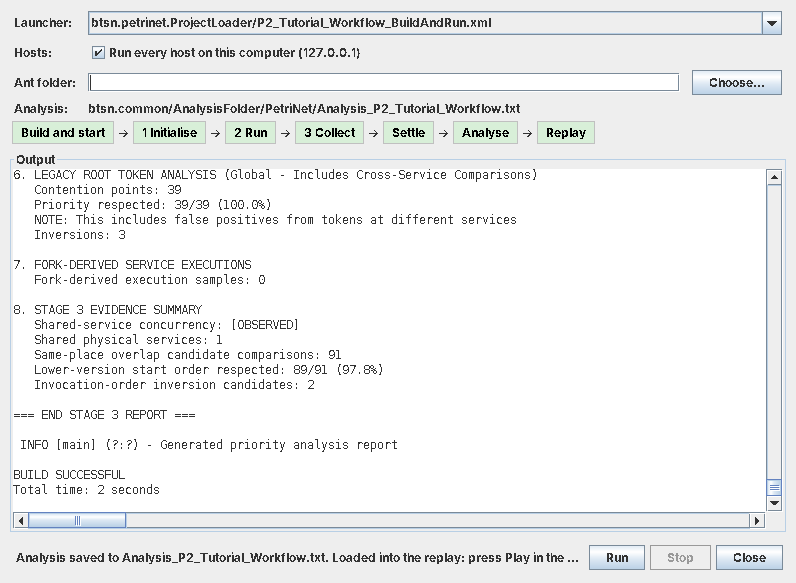
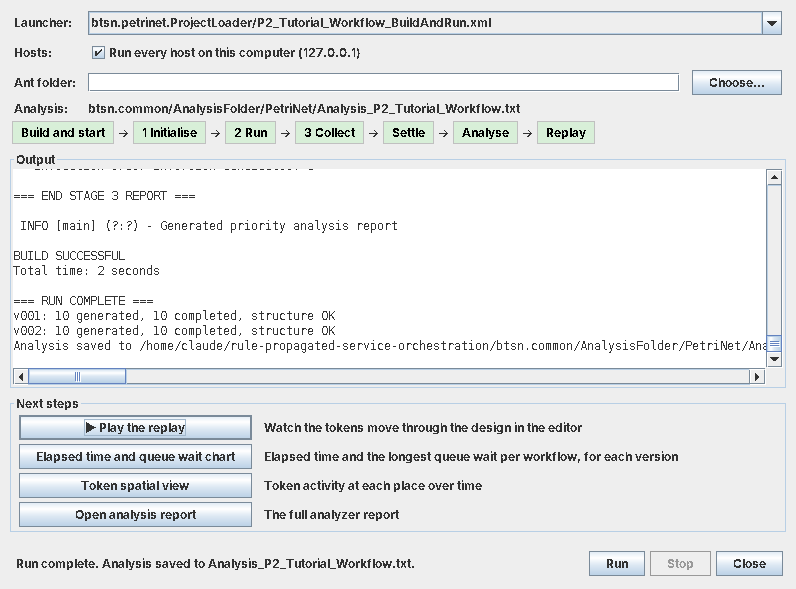
Run: a clear ending and next steps (replay, charts, report)
- The run's output ends with a summary per version ("v001: 10 generated, 10
  completed, structure OK"), flagging versions with unfinished workflows,
  instead of the analyse step's "BUILD SUCCESSFUL".
- Next steps panel in the Run window when a run completes: Play the replay
  (brings the editor forward and plays), the elapsed time and queue wait chart,
  the token spatial view, and the analysis report.
- The editor highlights Play and its status bar says the run is ready to replay.
- chart-timing and chart-spatial targets beside analyse in launcher-runtime.xml,
  so every launcher can open Monitor's charts (the Next steps buttons use them).
- The replay uses Monitor's version colours (v001 red, v002 blue, ...), so a
  version looks the same in the replay and the charts.
- SwingGanttChart_WithLatency_v1d was renamed on 9 Oct; the P1 export helper
  (which no longer compiled), README, tutorial and Monitor notes now use the
  current name.
- Verified with the real P2 launcher from the editor: summary shown, Play
  replayed, both charts opened.

Claude-Session: https://claude.ai/code/session_0151nDw2DdARiuD7yvK629N9

diff --git a/btsn.workflowEditor/src/com/editor/RunWindow.java b/btsn.workflowEditor/src/com/editor/RunWindow.java
@@ -18,6 +18,12 @@ public final class RunWindow extends JFrame {
     private final File root;
     private final String processName;
     private final Consumer<File> onAnalysis;
+    private final Runnable onPlay;
+    /** What to do once a run has been analysed; shown when the run completes. */
+    final JPanel nextSteps = new JPanel(new GridBagLayout());
+    final JButton play = new JButton("\u25B6 Play the replay"), timing = new JButton("Elapsed time and queue wait chart"),
+        spatial = new JButton("Token spatial view"), report = new JButton("Open analysis report");
+    private File lastAnalysis;
     final JComboBox<File> launcher;
     final JCheckBox allHostsHere = new JCheckBox("Run every host on this computer (127.0.0.1)", true);
     final JTextField ant = new JTextField(28);
@@ -29,9 +35,9 @@ public final class RunWindow extends JFrame {
 
     private static final String[] STEP_NAMES = {"Build and start", "1 Initialise", "2 Run", "3 Collect", "Settle", "Analyse", "Replay"};
 
-    public RunWindow(Window owner, File root, String processName, List<File> launchers, Consumer<File> onAnalysis) {
+    public RunWindow(Window owner, File root, String processName, List<File> launchers, Consumer<File> onAnalysis, Runnable onPlay) {
         super("Run " + processName);
-        this.root = root; this.processName = processName; this.onAnalysis = onAnalysis;
+        this.root = root; this.processName = processName; this.onAnalysis = onAnalysis; this.onPlay = onPlay;
         setDefaultCloseOperation(DO_NOTHING_ON_CLOSE);
         addWindowListener(new java.awt.event.WindowAdapter() { @Override public void windowClosing(java.awt.event.WindowEvent e) { closeWindow(); } });
 
@@ -84,11 +90,25 @@ public final class RunWindow extends JFrame {
         bottom.add(status, BorderLayout.CENTER); bottom.add(buttons, BorderLayout.EAST);
         status.setBorder(BorderFactory.createEmptyBorder(0, 8, 0, 0));
 
+        nextSteps.setBorder(BorderFactory.createTitledBorder("Next steps"));
+        addStep(0, play, "Watch the tokens move through the design in the editor");
+        addStep(1, timing, "Elapsed time and the longest queue wait per workflow, for each version");
+        addStep(2, spatial, "Token activity at each place over time");
+        addStep(3, report, "The full analyzer report");
+        play.setFont(play.getFont().deriveFont(Font.BOLD));
+        play.addActionListener(e -> { onPlay.run(); status.setText("Replaying in the editor."); });
+        timing.addActionListener(e -> openViewer("chart-timing", "elapsed time chart"));
+        spatial.addActionListener(e -> openViewer("chart-spatial", "spatial view"));
+        report.addActionListener(e -> showReport());
+        nextSteps.setVisible(false);
+        JPanel south = new JPanel(new BorderLayout(6, 6));
+        south.add(nextSteps, BorderLayout.NORTH); south.add(bottom, BorderLayout.SOUTH);
+
         JPanel north = new JPanel(new BorderLayout());
         north.add(form, BorderLayout.NORTH); north.add(progress, BorderLayout.SOUTH);
         JPanel content = new JPanel(new BorderLayout(6, 6));
         content.setBorder(BorderFactory.createEmptyBorder(8, 8, 8, 8));
-        content.add(north, BorderLayout.NORTH); content.add(consolePane, BorderLayout.CENTER); content.add(bottom, BorderLayout.SOUTH);
+        content.add(north, BorderLayout.NORTH); content.add(consolePane, BorderLayout.CENTER); content.add(south, BorderLayout.SOUTH);
         setContentPane(content);
         pack();
         setLocationRelativeTo(owner);
@@ -105,6 +125,7 @@ public final class RunWindow extends JFrame {
         prefs.put(ANT_PREF, ant.getText().trim());
         console.setText("");
         resetSteps();
+        nextSteps.setVisible(false);
         start.setEnabled(false); stop.setEnabled(true); launcher.setEnabled(false); allHostsHere.setEnabled(false);
         status.setText("Running " + selected.getName() + "...");
         run = new LauncherRun(selected, root, LauncherRun.analysisFileFor(root, processName), allHostsHere.isSelected(), ant.getText(), new LauncherRun.Listener() {
@@ -142,10 +163,43 @@ public final class RunWindow extends JFrame {
         start.setEnabled(true); stop.setEnabled(false); launcher.setEnabled(true); allHostsHere.setEnabled(true);
         if (outcome == LauncherRun.Phase.DONE && analysis != null) {
             onAnalysis.accept(analysis);
-            status.setText(message + " Loaded into the replay: press Play in the editor.");
+            lastAnalysis = analysis;
+            nextSteps.setVisible(true);
+            getContentPane().revalidate();
+            play.requestFocusInWindow();
+            getRootPane().setDefaultButton(play);
+            status.setText("Run complete. " + message);
         } else {
             for (JLabel step : steps) if (step.getBackground().equals(new Color(0xFFF1C2))) step.setBackground(new Color(0xF6D0D0));
             status.setText(message);
+        }
+    }
+
+    private void addStep(int row, JButton button, String what) {
+        GridBagConstraints c = new GridBagConstraints();
+        c.gridy = row; c.insets = new Insets(2, 6, 2, 6); c.anchor = GridBagConstraints.WEST;
+        c.gridx = 0; c.fill = GridBagConstraints.HORIZONTAL; nextSteps.add(button, c);
+        c.gridx = 1; c.weightx = 1; c.fill = GridBagConstraints.NONE; nextSteps.add(new JLabel(what), c);
+    }
+
+    /** The Monitor viewers run through the launcher's chart targets, like analyse. */
+    private void openViewer(String target, String name) {
+        if (run == null) return;
+        append("[editor] Opening the " + name + " (ant " + target + ")...");
+        status.setText("Opening the " + name + "; it appears in its own window.");
+        run.openTarget(target);
+    }
+
+    private void showReport() {
+        if (lastAnalysis == null) return;
+        try {
+            JTextArea text = new JTextArea(new String(java.nio.file.Files.readAllBytes(lastAnalysis.toPath()), java.nio.charset.StandardCharsets.UTF_8));
+            text.setEditable(false); text.setFont(new Font(Font.MONOSPACED, Font.PLAIN, 12)); text.setCaretPosition(0);
+            JFrame frame = new JFrame(lastAnalysis.getName());
+            frame.setContentPane(new JScrollPane(text));
+            frame.setSize(900, 700); frame.setLocationRelativeTo(this); frame.setVisible(true);
+        } catch (java.io.IOException ex) {
+            JOptionPane.showMessageDialog(this, ex.getMessage(), "Analysis report", JOptionPane.ERROR_MESSAGE);
         }
     }
 

diff --git a/btsn.workflowEditor/src/com/editor/LauncherRun.java b/btsn.workflowEditor/src/com/editor/LauncherRun.java
@@ -125,7 +125,57 @@ public final class LauncherRun {
         process = null;
         if (exit != 0 || stopRequested) return false;
         Files.write(analysisFile.toPath(), report.toString().getBytes(StandardCharsets.UTF_8));
+        // Ant's own last line is the analyse step's "BUILD SUCCESSFUL"; end with what the run did instead.
+        listener.line("");
+        for (String line : summarise(report.toString())) listener.line(line);
+        listener.line("Analysis saved to " + analysisFile.getPath());
         return true;
+    }
+
+    /**
+     * The run in a few lines, per version, from the analyzer report:
+     * "v001: 10 generated, 10 completed, structure OK".
+     */
+    static List<String> summarise(String report) {
+        List<String> lines = new ArrayList<>();
+        lines.add("=== RUN COMPLETE ===");
+        java.util.regex.Matcher base = java.util.regex.Pattern.compile("(?m)^WORKFLOW BASE: \\d+ \\((v\\d+)\\)").matcher(report);
+        List<int[]> spans = new ArrayList<>(); List<String> versions = new ArrayList<>();
+        while (base.find()) { versions.add(base.group(1)); spans.add(new int[] {base.start(), report.length()}); }
+        for (int i = 0; i + 1 < spans.size(); i++) spans.get(i)[1] = spans.get(i + 1)[0];
+        for (int i = 0; i < versions.size(); i++) {
+            String part = report.substring(spans.get(i)[0], spans.get(i)[1]);
+            String generated = first(part, "Generated workflows:\\s+(\\d+)"), completed = first(part, "Completed workflows:\\s+(\\d+)");
+            String structure = first(part, "Structural result:\\s+\\[(\\w+)\\]");
+            if (generated == null && completed == null) continue;
+            String line = versions.get(i) + ": " + generated + " generated, " + completed + " completed";
+            if (structure != null) line += ", structure " + structure;
+            if (generated != null && completed != null && !generated.equals(completed)) line += "  <-- " + (Integer.parseInt(generated) - Integer.parseInt(completed)) + " did not complete";
+            lines.add(line);
+        }
+        if (lines.size() == 1) lines.add("No workflows found in the analysis; see the report above.");
+        return lines;
+    }
+    private static String first(String text, String regex) {
+        java.util.regex.Matcher m = java.util.regex.Pattern.compile(regex).matcher(text);
+        return m.find() ? m.group(1) : null;
+    }
+
+    /**
+     * Opens one of the launcher's viewer targets (chart-timing, chart-spatial) in the background.
+     * It runs on its own, so closing the chart or the Run window does not affect the other.
+     */
+    public void openTarget(String target) {
+        Thread viewer = new Thread(() -> {
+            try {
+                Process p = start(Arrays.asList("-emacs", "-f", launcher.getName(), target), null);
+                try (BufferedReader out = new BufferedReader(new InputStreamReader(p.getInputStream(), StandardCharsets.UTF_8))) {
+                    for (String line; (line = out.readLine()) != null; ) listener.line("[" + target + "] " + line);
+                }
+            } catch (IOException ex) { listener.line("[" + target + "] " + ex.getMessage()); }
+        }, "viewer-" + target);
+        viewer.setDaemon(true);
+        viewer.start();
     }
 
     /** Monitor writes collected records after the last collector returns; wait until its database is quiet. */

diff --git a/btsn.workflowEditor/tests/com/editor/RunFromEditorCheck.java b/btsn.workflowEditor/tests/com/editor/RunFromEditorCheck.java
@@ -22,6 +22,14 @@ public final class RunFromEditorCheck {
         check(LauncherRun.phaseOf("=== PHASE 2: WORKFLOW EXECUTION ===") == LauncherRun.Phase.RUN && LauncherRun.phaseOf("Deploying") == null, "Phase lines");
         List<File> launchers = LauncherRun.launchersFor(repository, "petrinet/Workflow/P2_Tutorial_Workflow");
         check(!launchers.isEmpty() && launchers.get(0).getName().equals("P2_Tutorial_Workflow_BuildAndRun.xml"), "P2 launcher not found first: " + launchers);
+        // The closing summary: per version, generated and completed, flagged when some did not complete.
+        String single = new String(Files.readAllBytes(repository.toPath().resolve("btsn.workflowEditor/tests/fixtures/Analysis_P2_single_generator.txt")), StandardCharsets.UTF_8);
+        List<String> summary = LauncherRun.summarise(single);
+        check(summary.get(0).equals("=== RUN COMPLETE ===") && summary.contains("v001: 10 generated, 10 completed, structure OK"), "Summary: " + summary);
+        String twoVersions = "WORKFLOW BASE: 1000000 (v001)\n   Generated workflows:       10\n   Completed workflows:       10\n   Structural result:         [OK]\n"
+            + "WORKFLOW BASE: 2000000 (v002)\n   Generated workflows:       10\n   Completed workflows:       8\n";
+        List<String> partial = LauncherRun.summarise(twoVersions);
+        check(partial.contains("v001: 10 generated, 10 completed, structure OK") && partial.contains("v002: 10 generated, 8 completed  <-- 2 did not complete"), "Partial summary: " + partial);
         // A project reached through ".." (e.g. a process opened as ...\\btsn.workflowEditor\\..\\btsn.common\\...) gives real paths.
         File dotted = new File(repository, "btsn.workflowEditor/..");
         List<File> viaDots = LauncherRun.launchersFor(dotted, "petrinet/Workflow/P2_Tutorial_Workflow");
@@ -87,6 +95,7 @@ public final class RunFromEditorCheck {
         String saved = new String(Files.readAllBytes(analysis.toPath()), StandardCharsets.UTF_8);
         check(saved.contains("Analyzing ALL 1 workflow bases") && saved.contains("EventType=GENERATED"), "Analysis not saved: " + saved);
         check(!alive(hostPid), "Host left running after the run");
+        check(complete.lines.contains("=== RUN COMPLETE ===") && complete.lines.stream().anyMatch(l -> l.startsWith("Analysis saved to ")), "Run does not end with its summary: " + complete.lines);
 
         // Stop while the run is still in Phase 2.
         Files.deleteIfExists(hostPid);
@@ -100,7 +109,7 @@ public final class RunFromEditorCheck {
         check(stopped.done.await(30, TimeUnit.SECONDS) && stopped.outcome == LauncherRun.Phase.STOPPED, "Stop did not stop the run: " + stopped.outcome);
         check(!alive(hostPid), "Host left running after Stop");
         check(!scratch.resolve("unused.txt").toFile().exists(), "Stopped run wrote an analysis");
-        System.out.println("PASS: Run from the editor: phases followed, hosts stopped with the launcher, analysis saved, Stop mid-run");
+        System.out.println("PASS: Run from the editor: phases followed, hosts stopped with the launcher, analysis saved and summarised, Stop mid-run");
     }
 
     /** Builds Ant's folder layout with a Launcher class that behaves like a BuildAndRun launcher. */

diff --git a/docs/tutorials/p1/ExportP1TutorialResults.java b/docs/tutorials/p1/ExportP1TutorialResults.java
@@ -87,7 +87,7 @@ public final class ExportP1TutorialResults {
         write(output.resolve("analysis.txt"), Files.readString(output.resolve("analysis.txt")));
         SwingUtilities.invokeAndWait(() -> {
             try {
-                SwingGanttChart_WithLatency_v1d timing = new SwingGanttChart_WithLatency_v1d();
+                SwingGanttChart_WithLatency timing = new SwingGanttChart_WithLatency();
                 write(output.resolve("workflow-summary.txt"), timing.generateWorkflowSummaryReport());
                 write(output.resolve("workflow-timing.tex"), timing.generateLaTeXFigure());
                 write(output.resolve("workflow-table.tex"), timing.generateLaTeXTable());
@@ -125,7 +125,7 @@ public final class ExportP1TutorialResults {
                 "btsn.petrinet.ProjectLoader/P1_Tutorial_BuildAndRun.xml",
                 "btsn.petrinet.ProjectLoader/P1_Tutorial_Local_BuildAndRun.xml",
                 "btsn.common.eventgenerators/EventTriggeringFile/V001_EventTriggeringFile.csv",
-                "btsn.common.Monitor/src/org/btsn/derby/Analysis/SwingGanttChart_WithLatency_v1d.java"}) {
+                "btsn.common.Monitor/src/org/btsn/derby/Analysis/SwingGanttChart_WithLatency.java"}) {
             byte[] digest = MessageDigest.getInstance("SHA-256").digest(Files.readAllBytes(repository.resolve(name)));
             StringBuilder hex = new StringBuilder();
             for (byte value : digest) hex.append(String.format("%02x", value & 0xff));

diff --git a/btsn.workflowEditor/src/com/editor/TokenAnimator.java b/btsn.workflowEditor/src/com/editor/TokenAnimator.java
@@ -94,14 +94,15 @@ public class TokenAnimator {
     }
     
     private void initializeColors() {
-        versionColors.put("v001", new Color(0, 100, 200));
-        versionColors.put("v002", new Color(200, 50, 50));
-        versionColors.put("v003", new Color(50, 150, 50));
-        versionColors.put("v004", new Color(150, 100, 200));
-        versionColors.put("v005", new Color(200, 150, 50));
-        versionColors.put("v006", new Color(50, 150, 150));
-        versionColors.put("v007", new Color(150, 50, 150));
-        versionColors.put("v008", new Color(100, 100, 100));
+        // The same colours as Monitor's charts (WorkflowSpatialView, SwingGanttChart_WithLatency).
+        versionColors.put("v001", new Color(231, 76, 60));    // red
+        versionColors.put("v002", new Color(52, 152, 219));   // blue
+        versionColors.put("v003", new Color(46, 204, 113));   // green
+        versionColors.put("v004", new Color(155, 89, 182));   // purple
+        versionColors.put("v005", new Color(243, 156, 18));   // orange
+        versionColors.put("v006", new Color(26, 188, 156));   // teal
+        versionColors.put("v007", new Color(241, 196, 15));   // yellow
+        versionColors.put("v008", new Color(52, 73, 94));     // dark grey
     }
     
     public void setCanvas(Canvas canvas) {

diff --git a/btsn.workflowEditor/src/com/editor/ProcessEditor.java b/btsn.workflowEditor/src/com/editor/ProcessEditor.java
@@ -1293,8 +1293,16 @@ public class ProcessEditor extends JFrame {
         }
         final java.io.File processFile = currentFile;
         runWindow = new RunWindow(this, root, processName, launchers, analysis -> {
-            if (processFile.equals(currentFile)) animationPanel.loadAnalysisFile(analysis);
+            if (processFile.equals(currentFile)) {
+                animationPanel.loadAnalysisFile(analysis);
+                animationPanel.highlightPlay(true);
+                statusLabel.setText(" Run finished and analysed: press Play to replay it");
+            }
             else JOptionPane.showMessageDialog(this, "The run finished, but another process is open now. Its analysis is in " + analysis.getName() + ".", "Run", JOptionPane.INFORMATION_MESSAGE);
+        }, () -> {
+            if (!processFile.equals(currentFile)) return;
+            setState(java.awt.Frame.NORMAL); toFront(); requestFocus();
+            animationPanel.startPlayback();
         });
         runWindow.setVisible(true);
     }

diff --git a/btsn.workflowEditor/src/com/editor/AnimationControlPanel.java b/btsn.workflowEditor/src/com/editor/AnimationControlPanel.java
@@ -386,6 +386,7 @@ public class AnimationControlPanel extends JPanel {
      */
     public void startPlayback() {
         if (!animator.hasData()) return;
+        highlightPlay(false);
         
         playing = true;
         playPauseButton.setText("Pause");
@@ -396,6 +397,15 @@ public class AnimationControlPanel extends JPanel {
         }
     }
     
+    /** Draw attention to Play after a run from the editor has loaded its analysis; cleared on Play. */
+    public void highlightPlay(boolean on) {
+        playPauseButton.setFont(playPauseButton.getFont().deriveFont(on ? Font.BOLD : Font.PLAIN));
+        playPauseButton.setBackground(on ? new Color(0xD8EFD8) : null);
+        playPauseButton.setOpaque(on);
+        playPauseButton.setToolTipText(on ? "The run has been analysed: press Play to replay it" : null);
+        if (on) playPauseButton.requestFocusInWindow();
+    }
+
     /**
      * Stop playback
      */

diff --git a/btsn.common.Monitor/src/org/btsn/derby/Analysis/SwingGanttChart_WithLatency.java b/btsn.common.Monitor/src/org/btsn/derby/Analysis/SwingGanttChart_WithLatency.java
@@ -1253,7 +1253,7 @@ public class SwingGanttChart_WithLatency extends JPanel {
             List<String> paths = new ArrayList<>();
             for (int i=0; i<args.length; i+=2) {
                 if (i+1>=args.length || !"-db".equals(args[i]))
-                    throw new IllegalArgumentException("Usage: SwingGanttChart_WithLatency_v1d [-db stopped-host-database-path]...");
+                    throw new IllegalArgumentException("Usage: SwingGanttChart_WithLatency [-db stopped-host-database-path]...");
                 paths.add(args[i+1]);
             }
             startupDatabases = paths;

diff --git a/Tutorial.md b/Tutorial.md
@@ -250,7 +250,16 @@ Click **Run** in the toolbar. The Run window finds the process's launcher and do
 1. **Builds and starts** the hosts, then follows the launcher through its three phases.
 2. **Settles and stops.** When collection is done, it waits for Monitor to finish writing, then stops the launcher and every host it started.
 3. **Analyses.** It runs `analyse` and saves the report to `btsn.common/AnalysisFolder/PetriNet/Analysis_My_P2_Workflow.txt`, replacing any earlier analysis of the process.
-4. **Loads the replay.** It loads the analysis into the editor, so you can press **Play** straight away ([step 5](#replay-the-tokens-on-the-design)).
+4. **Loads the replay.** It loads the analysis into the editor and highlights **Play** ([step 5](#replay-the-tokens-on-the-design)).
+
+The output ends with a summary of the run, for example `v001: 10 generated, 10 completed, structure OK`. It flags any version whose workflows did not all complete. Below it, **Next steps** offers:
+
+| Button | Opens |
+|---|---|
+| **Play the replay** | The editor, replaying the tokens on the design |
+| **Elapsed time and queue wait chart** | Monitor's per-workflow timing chart, for each version |
+| **Token spatial view** | Monitor's view of activity at each place over time |
+| **Open analysis report** | The full analyzer report |
 
 ![The Run window after a completed run of the P2 tutorial: the launcher, the option to run every host on this computer, the Ant location, the analysis file, the seven steps from Build and start to Replay all completed, and the analyzer report in the output.](images/p2-tutorial-run.png)
 
@@ -366,11 +375,18 @@ Use the process that produced the run: the replay matches log entries to the pla
 
 ### Timing chart and spatial view
 
-Run these from `btsn.common.Monitor`, with that project as the working directory:
+After a run from the editor, open these from **Next steps**. Otherwise, run them from the launcher once its hosts have stopped:
+
+```sh
+ant -f btsn.petrinet.ProjectLoader/My_P2_Workflow_BuildAndRun.xml chart-timing
+ant -f btsn.petrinet.ProjectLoader/My_P2_Workflow_BuildAndRun.xml chart-spatial
+```
+
+You can also run them as Java applications from `btsn.common.Monitor`, with that project as the working directory:
 
 | Viewer | What it shows |
 |---|---|
-| `org.btsn.derby.Analysis.SwingGanttChart_WithLatency_v1d` | Elapsed time per workflow, with the longest queue wait observed on a service visit |
+| `org.btsn.derby.Analysis.SwingGanttChart_WithLatency` | Elapsed time per workflow, with the longest queue wait observed on a service visit |
 | `org.btsn.derby.Analysis.WorkflowSpatialView` | Activity at each place over time, including repeat visits |
 
 ![Workflow elapsed-time chart for the captured ten-token P1 reference run.](docs/tutorials/p1/results/workflow-timing.png)

diff --git a/README.md b/README.md
@@ -66,7 +66,7 @@ ant -emacs -f P1_P2_P3_P4_Concurrent_BuildAndRun.xml analyse > analysis.txt
 ```
 
 **3. View the measurements.** `WorkflowSpatialView` (each token's visits, one
-lane per place) and `SwingGanttChart_WithLatency_v1d` (workflow elapsed time and
+lane per place) and `SwingGanttChart_WithLatency` (workflow elapsed time and
 queue waits) are Java applications in `btsn.common.Monitor`. In Eclipse, use
 **Run As → Java Application**. From a shell, run them from `btsn.common.Monitor`
 (use `;` instead of `:` on Windows):
@@ -454,7 +454,7 @@ The tools in `btsn.common.Monitor/src/org/btsn/derby/Analysis` include:
 | Tool | Use |
 |---|---|
 | `PetriNetAnalyzer` | Generated roots, fork genealogy, join consumption, canonical place visits, completion and structural/temporal checks |
-| `SwingGanttChart_WithLatency_v1d` | Workflow elapsed/queue figure, measured timeline, service queue comparisons, and publication exports |
+| `SwingGanttChart_WithLatency` | Workflow elapsed/queue figure, measured timeline, service queue comparisons, and publication exports |
 | `WorkflowSpatialView` | Each token's visits over time, one lane per place, labelled with its service and node |
 
 The combined chart offers **Diamonds** and **Lower Queue Shading** from

diff --git a/docs/tutorials/p1/results/README.md b/docs/tutorials/p1/results/README.md
@@ -56,7 +56,7 @@ Monitor supplies observations separately from the business path.
 | [analysis.txt](analysis.txt) | Full `PetriNetAnalyzer --all` report, including `Time=...` marking events for ProcessEditor's **Load Analysis...** replay |
 | [workflows.csv](workflows.csv) | Per-root generation/completion timestamps, elapsed time, maximum queue wait and visits |
 | [workflow-summary.txt](workflow-summary.txt) | Timing chart's own measurement definitions and ordered root summary |
-| [workflow-timing.png](workflow-timing.png) | Current `SwingGanttChart_WithLatency_v1d` rendering |
+| [workflow-timing.png](workflow-timing.png) | Current `SwingGanttChart_WithLatency` rendering |
 | [workflow-spatial.png](workflow-spatial.png) | Current `WorkflowSpatialView` rendering |
 | [workflow-spatial-summary.txt](workflow-spatial-summary.txt) | Spatial view's own visit and timing summary |
 | [workflow-timing.tex](workflow-timing.tex) | Timing figure generated by the existing chart's LaTeX exporter |

diff --git a/images/README.md b/images/README.md
@@ -76,7 +76,7 @@ painted from the editor's own windows at 100% zoom:
 | `p2-tutorial-design.png` | ProcessEditor with `P2_Tutorial_Workflow.json` open and P2 selected: catalogue, service, operation, **What it does**, deployment instance, **Runs on** and contract in the Attributes panel; the node badge on the place |
 | `p2-tutorial-deploy.png` | The Deploy panel for that process: the read-only `SingleHost.json` nodes and the P2 capability row |
 | `p2-tutorial-build-and-run.png` | The Create Build and Run dialog with its defaults and the Write/Reuse/Replace summary |
-| `p2-tutorial-run.png` | The Run window after a completed run: every step from Build and start to Replay done, with the analyzer report in the output |
+| `p2-tutorial-run.png` | The Run window after a completed run: every step from Build and start to Replay done, the closing summary per version, and the Next steps panel |
 
 Retake them when these windows change, rather than editing the images.
 
